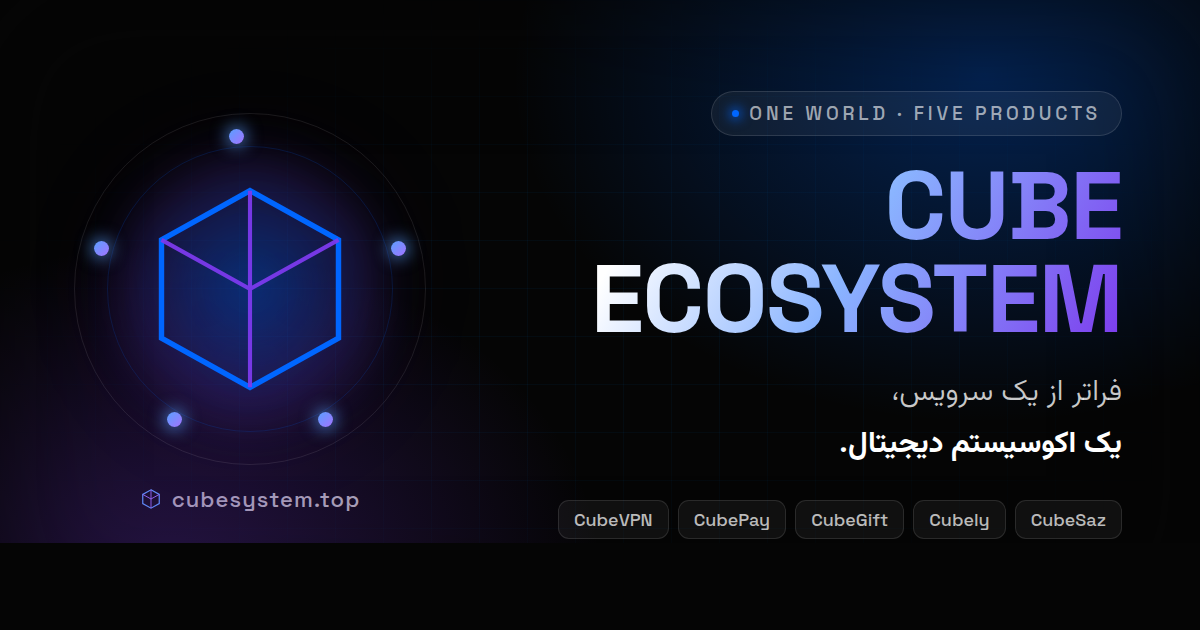
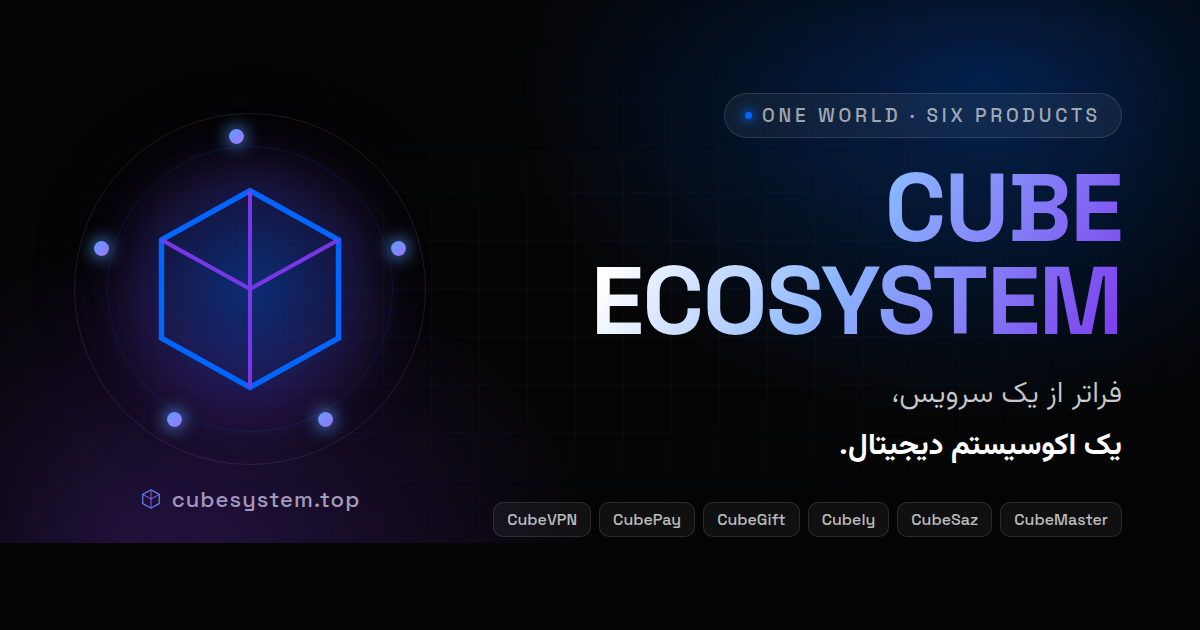
Add CubeMaster as the sixth product
CubeMaster orchestrates tunnels for a PasarGuard fleet — it probes every
path from inside Iran, moves users onto a healthy one before they notice,
and carries the reseller wallet and billing the panel has no model for.
Channel is t.me/CubePanel.

Six is not five, so this is more than one new section. The count was
written into the hero kicker, the network copy, the orbit heading and the
meta description; the orbit spaced its worlds 72 degrees apart, which is
360/5. All of it moves to six.

The pieces that read from the DOM needed nothing: the connector lines are
measured from the cards, and the modal binds every [data-brand], so the
new node wires itself up. The diagram gains a bottom-centre slot that
mirrors net-top, keeping the six symmetric around the core.

The product visual is the thing itself — a relay, three candidate lanes
and an exit, with one lane carrying. The nav is nine items now and no
longer cleared the logo between 760px and 1040px, so it tightens there.

Cover card regenerated: SIX PRODUCTS, six brand chips, at the smaller
chip size the apps card already used to keep them on one line.

Claude-Session: https://claude.ai/code/session_0184bdv7LNitXUsnSwVEh6QA

diff --git a/index.html b/index.html
@@ -4,7 +4,7 @@
 <meta charset="UTF-8">
 <meta name="viewport" content="width=device-width, initial-scale=1.0">
 <title>Cube Ecosystem — فراتر از یک سرویس، یک اکوسیستم دیجیتال</title>
-<meta name="description" content="اکوسیستم Cube — اتصال، پرداخت، سرگرمی، بازار دیجیتال و ساخت آینده. CubeVPN، CubePay، CubeGift، Cubely و CubeSaz در یک جهان.">
+<meta name="description" content="اکوسیستم Cube — اتصال، پرداخت، سرگرمی، بازار دیجیتال، ساخت ربات و مدیریت زیرساخت. CubeVPN، CubePay، CubeGift، Cubely، CubeSaz و CubeMaster در یک جهان.">
 <!-- cubepy.github.io serves these same files as the fallback for visitors
      ArvanCloud does not reach, so every page exists at two addresses. The
      canonical names the real one so Google does not split them. -->
@@ -136,6 +136,8 @@ nav.scrolled{
 .nav-logo{display:flex;align-items:center;gap:10px;font-family:var(--en);font-weight:700;letter-spacing:.12em;font-size:15px}
 .nav-logo .mini-cube{width:22px;height:22px;flex:none}
 .nav-links{display:flex;gap:26px;font-size:13.5px;color:var(--muted)}
+/* nine items no longer clear the logo at the narrow end of the desktop range */
+@media(max-width:1040px){.nav-links{gap:16px;font-size:12.5px}}
 .nav-links a{position:relative;transition:color .25s}
 .nav-links a:hover{color:#fff}
 .nav-links a::after{
@@ -253,6 +255,7 @@ h1.hero-title{
 .sat3{animation:float3 7.5s ease-in-out infinite;transform:translate(-230%,240%)}
 .sat4{animation:float4 8.5s ease-in-out infinite;transform:translate(70%,420%)}
 .sat5{animation:float5 6.5s ease-in-out infinite;transform:translate(-285%,-90%)}
+.sat6{animation:float2 7.8s ease-in-out infinite;transform:translate(85%,90%)}
 @keyframes float1{0%,100%{transform:translate(-160%,-620%)}50%{transform:translate(-160%,-680%)}}
 @keyframes float2{0%,100%{transform:translate(60%,-380%)}50%{transform:translate(60%,-330%)}}
 @keyframes float3{0%,100%{transform:translate(-230%,240%)}50%{transform:translate(-230%,300%)}}
@@ -302,6 +305,8 @@ h1.hero-title{
 .net-left{grid-column:1;grid-row:2}
 .net-bl{grid-column:1;grid-row:3;margin-top:52px}
 .net-br{grid-column:3;grid-row:3;margin-top:52px}
+/* mirrors net-top, so the six sit symmetrically around the core */
+.net-bottom{grid-column:2;grid-row:3;margin-top:52px}
 .net-lines{position:absolute;inset:0;z-index:1;pointer-events:none}
 .net-lines line{
   stroke:url(#lineGrad);stroke-width:1.5;
@@ -410,6 +415,26 @@ h1.hero-title{
 .ai-ring.r2{inset:-26px;border-color:rgba(124,58,237,.4);animation-duration:18s;animation-direction:reverse}
 @keyframes rot{to{transform:rotate(360deg)}}
 .ai-orb{width:86px;height:86px;border-radius:50%;background:radial-gradient(circle at 35% 30%,rgba(0,140,255,.9),rgba(124,58,237,.7));box-shadow:0 0 44px rgba(0,102,255,.6);animation:pulse 3.4s ease-in-out infinite}
+/* CubeMaster: relay, three candidate lanes, exit — one of them carrying */
+.lanes{display:flex;align-items:center;gap:18px;direction:ltr}
+.lane-end{
+  font-family:var(--en);font-size:11.5px;font-weight:600;letter-spacing:.08em;
+  padding:14px 12px;border-radius:12px;white-space:nowrap;
+  background:var(--glass);border:1px solid rgba(0,140,255,.35);
+  box-shadow:0 0 22px rgba(0,102,255,.18);
+}
+.lane-rail{display:flex;flex-direction:column;gap:24px;width:186px}
+.lane{
+  height:2px;border-radius:2px;
+  background:repeating-linear-gradient(90deg,rgba(255,255,255,.28) 0 5px,transparent 5px 12px);
+}
+.lane.live{
+  height:3px;
+  background:repeating-linear-gradient(90deg,#0066FF 0 7px,transparent 7px 15px);
+  box-shadow:0 0 14px rgba(0,102,255,.75);
+  animation:laneflow 1.1s linear infinite;
+}
+@keyframes laneflow{to{background-position:15px 0}}
 .ai-ring .nodeb{position:absolute;top:-5px;left:50%;width:10px;height:10px;border-radius:3px;background:var(--purple);box-shadow:0 0 12px var(--purple)}
 
 /* ---------- worlds ---------- */
@@ -614,6 +639,7 @@ footer{
     <a href="#gift">CubeGift</a>
     <a href="#cubely">Cubely</a>
     <a href="#saz">CubeSaz</a>
+    <a href="#master">CubeMaster</a>
     <a href="apps/">Apps</a>
     <a href="#support">Support</a>
   </div>
@@ -623,10 +649,10 @@ footer{
 <section id="hero">
   <div class="wrap hero-grid">
     <div class="hero-copy" id="heroCopy">
-      <span class="hero-kicker reveal"><span class="dot"></span> ONE WORLD · FIVE PRODUCTS</span>
+      <span class="hero-kicker reveal"><span class="dot"></span> ONE WORLD · SIX PRODUCTS</span>
       <h1 class="hero-title en reveal">CUBE<br>ECOSYSTEM</h1>
       <div class="hero-fa reveal">فراتر از یک سرویس،<br>یک اکوسیستم دیجیتال.</div>
-      <p class="hero-sub reveal">اتصال، پرداخت، سرگرمی، بازار دیجیتال و ساخت آینده.<br>همه در یک جهان.</p>
+      <p class="hero-sub reveal">اتصال، پرداخت، سرگرمی، بازار دیجیتال، ساخت ربات و زیرساخت.<br>همه در یک جهان.</p>
       <div class="hero-cta reveal">
         <a class="btn-primary en" href="#network">Explore Ecosystem
           <svg width="16" height="16" viewBox="0 0 24 24" fill="none"><path d="M12 5v14m0 0 6-6m-6 6-6-6" stroke="currentColor" stroke-width="2" stroke-linecap="round" stroke-linejoin="round"/></svg>
@@ -650,6 +676,7 @@ footer{
       <div class="sat sat3 p en"><i></i>Cubely</div>
       <div class="sat sat4 en"><i></i>CubeSaz</div>
       <div class="sat sat5 en"><i></i>CubeVPN</div>
+      <div class="sat sat6 p en"><i></i>CubeMaster</div>
     </div>
   </div>
 </section>
@@ -659,7 +686,7 @@ footer{
   <div class="wrap">
     <div class="section-kicker reveal">THE CUBE NETWORK</div>
     <h2 class="section-title en reveal">One core.<br>Infinite connections.</h2>
-    <p class="section-fa reveal">همهچیز از یک هسته شروع میشود — CUBE قلب اکوسیستم است<br>و پنج جهان دیجیتال به دور آن میچرخند.</p>
+    <p class="section-fa reveal">همهچیز از یک هسته شروع میشود — CUBE قلب اکوسیستم است<br>و شش جهان دیجیتال به دور آن میچرخند.</p>
 
     <div class="net-scene reveal">
       <!-- Connector lines are generated from the real card positions in JS
@@ -681,6 +708,7 @@ footer{
       <div class="net-node net-right en" data-brand="pay">CubePay</div>
       <div class="net-node net-bl en" data-brand="cubely">Cubely</div>
       <div class="net-node net-br en" data-brand="saz">CubeSaz</div>
+      <div class="net-node net-bottom en" data-brand="master">CubeMaster</div>
     </div>
 
     <p class="net-msg reveal"><strong>CUBE is the core.</strong><br>Everything connects around it.</p>
@@ -781,12 +809,38 @@ footer{
   </div>
 </section>
 
+<!-- ═══════════ 06 CubeMaster ═══════════ -->
+<section id="master" class="product alt">
+  <div class="wrap prod-grid">
+    <div class="prod-text">
+      <div class="prod-num en anim">06</div>
+      <h2 class="prod-name en anim">Cube<span class="accent">Master</span></h2>
+      <div class="prod-fa anim">تونلهایت را خودش<br>سرپا نگه میدارد.</div>
+      <p class="prod-desc anim">ارکستراتور تونل و پنل فروش نمایندگی. هر مسیر را مدام از داخل ایران میسنجد و وقتی یکی افت میکند، کاربرها را بیسروصدا روی مسیر سالم میبرد — بدون اینکه کسی بیدار باشد.</p>
+      <a class="prod-link anim" href="https://t.me/CubePanel" target="_blank" rel="noopener">t.me/CubePanel ↗</a>
+    </div>
+    <div class="prod-visual anim-vis">
+      <!-- three lanes between an Iranian relay and a foreign exit; the live one
+           carries the dashes, the others wait. That is the product. -->
+      <div class="viz-icon lanes">
+        <div class="lane-end">IR</div>
+        <div class="lane-rail">
+          <div class="lane live"></div>
+          <div class="lane"></div>
+          <div class="lane"></div>
+        </div>
+        <div class="lane-end">EXIT</div>
+      </div>
+    </div>
+  </div>
+</section>
+
 <!-- ═══════════ WORLDS ═══════════ -->
 <section id="worlds">
   <div class="wrap">
     <div class="section-kicker reveal">ORBIT</div>
-    <h2 class="section-title en reveal">One Ecosystem.<br>Five Worlds.</h2>
-    <p class="section-fa reveal">پنج جهان دیجیتال، در مدار یک هسته.</p>
+    <h2 class="section-title en reveal">One Ecosystem.<br>Six Worlds.</h2>
+    <p class="section-fa reveal">شش جهان دیجیتال، در مدار یک هسته.</p>
     <div class="worlds-stage reveal" id="worldsStage">
       <div class="worlds-orbit" id="worldsOrbit">
         <div class="world core-world">
@@ -794,20 +848,24 @@ footer{
             <svg viewBox="0 0 24 24" fill="none"><path d="M12 2 21 7v10l-9 5-9-5V7l9-5Z" stroke="#fff" stroke-width="1.3"/><path d="M12 2v10m0 0 9-5m-9 5-9-5m9 5v10" stroke="rgba(255,255,255,.7)" stroke-width="1"/></svg>
           </div><span>CUBE</span>
         </div>
+        <!-- angles are 360/n apart; six worlds means 60, not 72 -->
         <a class="world" href="https://t.me/Cube_VPNN" target="_blank" rel="noopener" data-angle="0" data-brand="vpn">
           <div class="sphere"></div><span>CubeVPN</span>
         </a>
-        <a class="world pu" href="https://t.me/Cubepy" target="_blank" rel="noopener" data-angle="72" data-brand="pay">
+        <a class="world pu" href="https://t.me/Cubepy" target="_blank" rel="noopener" data-angle="60" data-brand="pay">
           <div class="sphere"></div><span>CubePay</span>
         </a>
-        <a class="world" href="https://cubegift.ir/" target="_blank" rel="noopener" data-angle="144" data-brand="gift">
+        <a class="world" href="https://cubegift.ir/" target="_blank" rel="noopener" data-angle="120" data-brand="gift">
           <div class="sphere"></div><span>CubeGift</span>
         </a>
-        <a class="world pu" href="https://cubely.ir/" target="_blank" rel="noopener" data-angle="216" data-brand="cubely">
+        <a class="world pu" href="https://cubely.ir/" target="_blank" rel="noopener" data-angle="180" data-brand="cubely">
           <div class="sphere"></div><span>Cubely</span>
         </a>
-        <a class="world" href="https://t.me/CubeSaz" target="_blank" rel="noopener" data-angle="288" data-brand="saz">
+        <a class="world" href="https://t.me/CubeSaz" target="_blank" rel="noopener" data-angle="240" data-brand="saz">
           <div class="sphere"></div><span>CubeSaz</span>
+        </a>
+        <a class="world pu" href="https://t.me/CubePanel" target="_blank" rel="noopener" data-angle="300" data-brand="master">
+          <div class="sphere"></div><span>CubeMaster</span>
         </a>
       </div>
     </div>
@@ -865,6 +923,7 @@ footer{
     <a href="https://cubegift.ir/" target="_blank" rel="noopener" data-brand="gift"><i></i>CubeGift</a>
     <a href="https://cubely.ir/" target="_blank" rel="noopener" data-brand="cubely"><i></i>Cubely</a>
     <a href="https://t.me/CubeSaz" target="_blank" rel="noopener" data-brand="saz"><i></i>CubeSaz</a>
+    <a href="https://t.me/CubePanel" target="_blank" rel="noopener" data-brand="master"><i></i>CubeMaster</a>
     <a href="apps/"><i></i>Apps</a>
     <a href="https://donofa.com/Cube" target="_blank" rel="noopener"><i></i>Support</a>
   </div>
@@ -1333,7 +1392,7 @@ function loadThree(){
 
 /* ───────── network diagram connectors ─────────
    Drawn from the cards' measured positions rather than fixed coordinates,
-   so every one of the five stays attached to the core as the grid reflows
+   so every one of the six stays attached to the core as the grid reflows
    (and under RTL, where the left/right columns swap visually). */
 (function(){
   const scene=document.querySelector('.net-scene');
@@ -1412,7 +1471,12 @@ function loadThree(){
       tag:'ربات فروش خودت را در ۲ دقیقه بساز.',
       desc:'پلتفرم ساخت ربات فروش — بدون سرور، بدون کدنویسی و بدون هزینه اولیه؛ فقط توکن ربات را بده، بقیهاش با ماست.',
       feats:['پشتیبانی از ۱۳ پنل: مرزبان، هیدیفای، 3X-UI و…','مینیاپ اختصاصی مشتری داخل تلگرام','کیف پول و درگاه: کریپتو، کارتبهکارت، زرینپال','بکاپ خودکار هر ۶ ساعت + ۳ روز تست رایگان'],
-      url:'https://t.me/CubeSaz',cta:'Join CubeSaz'}
+      url:'https://t.me/CubeSaz',cta:'Join CubeSaz'},
+    master:{name:'CubeMaster',color:'#7C3AED',glow:'rgba(124,58,237,.18)',
+      tag:'تونلها را خودش سرپا نگه میدارد.',
+      desc:'ارکستراتور تونل و پنل فروش نمایندگی روی PasarGuard — مسیرها را از داخل ایران میسنجد و پیش از آنکه کاربر متوجه شود، روی مسیر سالم سوییچ میکند.',
+      feats:['سنجش مسیر از داخل ایران، نه از بیرون','جابهجایی خودکار روی مسیر سالم','۱۰ نوع تونل: Backhaul · rathole · GOST · wstunnel و…','کیف پول و صورتحساب نماینده + ربات تلگرام'],
+      url:'https://t.me/CubePanel',cta:'Join CubePanel'}
   };
   const bd=document.getElementById('brandModal'),
         modal=bd.querySelector('.modal'),

diff --git a/tools/og/cover.html b/tools/og/cover.html
@@ -60,9 +60,9 @@ h1 span{display:block}
 .tag{margin-top:22px;font-size:30px;font-weight:300;line-height:1.75;color:rgba(255,255,255,.80)}
 .tag b{font-weight:700;color:#fff}
 
-.chips{display:flex;flex-wrap:wrap;gap:9px;margin-top:28px;direction:ltr;justify-content:flex-end}
-.chip{font-family:'Space Grotesk',sans-serif;font-size:18px;font-weight:500;
-  color:rgba(255,255,255,.72);padding:7px 15px;border-radius:11px;
+.chips{display:flex;flex-wrap:nowrap;gap:8px;margin-top:28px;direction:ltr;justify-content:flex-end}
+.chip{font-family:'Space Grotesk',sans-serif;font-size:16px;font-weight:500;white-space:nowrap;
+  color:rgba(255,255,255,.72);padding:6px 13px;border-radius:10px;
   background:rgba(255,255,255,.05);border:1px solid rgba(255,255,255,.11)}
 
 .domain{direction:ltr;display:flex;align-items:center;gap:10px;
@@ -96,7 +96,7 @@ h1 span{display:block}
   <div class="edge"></div>
 
   <div class="copy">
-    <div class="kicker"><i></i>ONE WORLD · FIVE PRODUCTS</div>
+    <div class="kicker"><i></i>ONE WORLD · SIX PRODUCTS</div>
     <h1><span>CUBE</span><span>ECOSYSTEM</span></h1>
     <div class="tag">فراتر از یک سرویس،<br><b>یک اکوسیستم دیجیتال.</b></div>
     <div class="chips">
@@ -105,6 +105,7 @@ h1 span{display:block}
       <div class="chip">CubeGift</div>
       <div class="chip">Cubely</div>
       <div class="chip">CubeSaz</div>
+      <div class="chip">CubeMaster</div>
     </div>
   </div>
 

diff --git a/apps/index.html b/apps/index.html
@@ -204,6 +204,7 @@ footer{position:relative;z-index:2;background:#000;border-top:1px solid rgba(255
     <a href="https://cubegift.ir/" target="_blank" rel="noopener"><i></i>CubeGift</a>
     <a href="https://cubely.ir/" target="_blank" rel="noopener"><i></i>Cubely</a>
     <a href="https://t.me/CubeSaz" target="_blank" rel="noopener"><i></i>CubeSaz</a>
+    <a href="https://t.me/CubePanel" target="_blank" rel="noopener"><i></i>CubeMaster</a>
     <a href="https://donofa.com/Cube" target="_blank" rel="noopener"><i></i>Support</a>
   </div>
   <div class="footer-copy">© Cube Ecosystem — Connect. Create. Evolve.</div>
